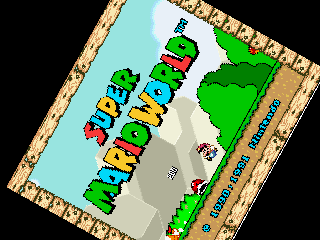
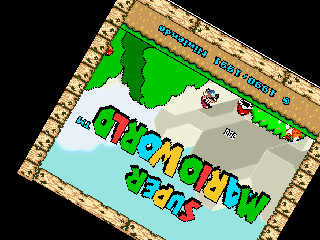
idk its 5 am more mode 7 things still not good yet

diff --git a/otter-rpg-engine/Graphics/Mode7.cs b/otter-rpg-engine/Graphics/Mode7.cs
@@ -6,32 +6,107 @@ namespace Shellblade.Graphics
 {
 	public class Mode7 : Drawable
 	{
-		private Image _toImage;
+		private readonly Sprite   _sprite = new Sprite();
+		private          Image    _toImage;
+		private          Image    _fromImage;
+		private          Vector2u _scroll;
+		private          Vector2u _center;
+		private          double   _rotation;
+		private          Vector2f _scale;
+		private          Vector2u _resolution;
+		private          bool     _rendered = false;
+		private          Vector2f _skew;
 
-		private Sprite _sprite = new Sprite();
+		public Image FromImage
+		{
+			get => _fromImage;
+			set
+			{
+				_fromImage = value;
+				_rendered  = false;
+			}
+		}
 
-		public Image FromImage { get; set; }
+		public Vector2u Scroll
+		{
+			get => _scroll;
+			set
+			{
+				_scroll   = value;
+				_rendered = false;
+			}
+		}
 
-		public Vector2u Scroll   { get; set; }
-		public Vector2u Center   { get; set; }
-		public double   Rotation { get; set; }
-		public Vector2f Scale    { get; set; }
+		public Vector2u Center
+		{
+			get => _center;
+			set
+			{
+				_center   = value;
+				_rendered = false;
+			}
+		}
 
-		public Vector2u Resolution { get; set; }
+		public double Rotation
+		{
+			get => _rotation;
+			set
+			{
+				_rotation = value;
+				_rendered = false;
+			}
+		}
+
+		public Vector2f Scale
+		{
+			get => _scale;
+			set
+			{
+				_scale    = value;
+				_rendered = false;
+			}
+		}
+
+		public Vector2u Resolution
+		{
+			get => _resolution;
+			set
+			{
+				_resolution = value;
+				_toImage    = new Image(value.X, value.Y);
+				_rendered   = false;
+			}
+		}
+
+		public Vector2f Skew
+		{
+			get => _skew;
+			set
+			{
+				_skew     = value;
+				_rendered = false;
+			}
+		}
 
 		private double _h   => Scroll.X / 256.0;
 		private double _v   => Scroll.Y / 256.0;
 		private double _x   => Center.X / 256.0;
 		private double _y   => Center.Y / 256.0;
 		private double _a   => Math.Cos(rads) * Scale.X;
-		private double _b   => Math.Sin(rads) * Scale.X;
-		private double _c   => -Math.Sin(rads) * Scale.Y;
+		private double _b   => Math.Sin(rads) * (Scale.X + Skew.X * Scale.Y);
+		private double _c   => -Math.Sin(rads) * (Scale.Y + Skew.Y * Scale.X);
 		private double _d   => Math.Cos(rads) * Scale.Y;
 		private double rads => Rotation * Math.PI / 180.0;
 
-		public Texture DrawTexture()
+		public void Draw(RenderTarget target, RenderStates states)
 		{
-			_toImage = new Image(Resolution.X, Resolution.Y);
+			if (!_rendered) DrawTexture();
+			target.Draw(_sprite, states);
+		}
+
+		private void DrawTexture()
+		{
+			_rendered = true;
 
 			Vector2u size = _toImage.Size;
 
@@ -43,16 +118,8 @@ namespace Shellblade.Graphics
 				_toImage.SetPixel(xx, yy, pixel);
 			}
 
-			_toImage.SaveToFile(@"P:\CS\otter-rpg\otter-rpg-engine\Graphics\mode7.png");
-
-			return new Texture(_toImage);
-		}
-
-		public void Draw(RenderTarget target, RenderStates states)
-		{
-			_sprite.Texture = DrawTexture();
-
-			target.Draw(_sprite, states);
+			if (_sprite.Texture == null) _sprite.Texture = new Texture(_toImage);
+			else _sprite.Texture.Update(_toImage);
 		}
 
 		private Vector2u GetVect(uint x, uint y)
@@ -68,6 +135,138 @@ namespace Shellblade.Graphics
 			if (uX < 0 || uY < 0 || uX > FromImage.Size.X || uY > FromImage.Size.Y) uX = uY = 0;
 
 			return new Vector2u((uint)uX, (uint)uY);
+		}
+
+		public class Matrix
+		{
+			private readonly double[][] _numbers = { new double[3], new double[3], new double[3] };
+
+			public double A
+			{
+				get => this[0][0];
+				set => this[0][0] = value;
+			}
+
+			public double B
+			{
+				get => this[0][1];
+				set => this[0][1] = value;
+			}
+
+			public double C
+			{
+				get => this[1][0];
+				set => this[1][0] = value;
+			}
+
+			public double D
+			{
+				get => this[1][1];
+				set => this[1][1] = value;
+			}
+
+			public double X
+			{
+				get => this[0][2];
+				set => this[0][2] = value;
+			}
+
+			public double Y
+			{
+				get => this[1][2];
+				set => this[1][2] = value;
+			}
+
+			public double[] this[int index]
+			{
+				get => _numbers[index];
+				set => _numbers[index] = value;
+			}
+
+			public Matrix(double[][] values)
+			{
+				_numbers = values;
+			}
+
+			public Matrix(double[] values)
+			{
+				_numbers = new[]
+				{
+					new[] { values[0], values[1], values[2] },
+					new[] { values[3], values[4], values[5] },
+					new[] { values[6], values[7], values[8] },
+				};
+			}
+
+			public Matrix(double x0, double x1, double x2, double y0, double y1, double y2, double z0, double z1, double z2)
+			{
+				_numbers = new[]
+				{
+					new[] { x0, x1, x2 },
+					new[] { y0, y1, y2 },
+					new[] { z0, z1, z2 },
+				};
+			}
+
+			public Matrix()
+			{
+				_numbers = new double[3][];
+			}
+
+			public static Matrix operator *(Matrix a, Matrix b)
+			{
+				var m = new Matrix();
+				for (var x = 0; x < 3; x++)
+				for (var y = 0; y < 3; y++)
+				for (var i = 0; i < 3; i++)
+					m[y][x] += a[i][x] * b[y][i];
+
+				return m;
+			}
+
+			public static double[] operator *(Matrix a, double[] b)
+			{
+				return new[]
+				{
+					a[0][0] * b[0] + a[0][1] * b[1] + a[0][2] * b[2],
+					a[1][0] * b[0] + a[1][1] * b[1] + a[1][2] * b[2],
+					a[2][0] * b[0] + a[2][1] * b[1] + a[2][2] * b[2],
+				};
+			}
+
+			public static Vector2f operator *(Matrix a, Vector2f b)
+			{
+				double[] c = a * new[] { b.X, b.Y, 1.0 };
+				return new Vector2f((float)c[0], (float)c[1]);
+			}
+
+			public static Vector3f operator *(Matrix a, Vector3f b)
+			{
+				double[] c = a * new double[] { b.X, b.Y, b.Z };
+				return new Vector3f((float)c[0], (float)c[1], (float)c[2]);
+			}
+		}
+
+		public class Transform
+		{
+			public static readonly Matrix Identity = new Matrix(1.0, 0.0, 0.0, 0.0, 1.0, 0.0, 0.0, 0.0, 1.0);
+
+			public Matrix Matrix { get; set; }
+
+			private double _rotation;
+
+			private double Radians => _rotation * Math.PI / 180.0;
+
+			public void Translate(int x, int y)
+			{
+				var t = new Matrix(1.0, 0.0, x, 0.0, 1.0, y, 0.0, 0.0, 1.0);
+				Matrix = t * Matrix;
+			}
+
+			public void Rotate(double angle)
+			{
+
+			}
 		}
 	}
 }

diff --git a/otter-rpg/Program.cs b/otter-rpg/Program.cs
@@ -76,27 +76,32 @@ namespace OtterRPG
 
 			var m7 = new Mode7
 			{
-				Resolution = new Vector2u(ResWidth, ResHeight),
-				Scroll     = new Vector2u(0,        0),
-				Center     = new Vector2u(ResWidth / 2,  ResHeight / 2),
+				Resolution = new Vector2u(ResWidth,     ResHeight),
+				Scroll     = new Vector2u(0,            0),
+				Center     = new Vector2u(ResWidth / 2, ResHeight / 2),
 				Scale      = new Vector2f(1f, 1f),
-				Rotation   = 45.0,
-				FromImage  = new Image(@"P:\CS\otter-rpg\otter-rpg-engine\Graphics\smw.png"),
+				Rotation   = 0.0,
+				Skew       = new Vector2f(5f, 0f),
+				FromImage  = new Image(@"P:\CS\otter-rpg\otter-rpg-engine\Graphics\alttp.png"),
 			};
 
 			var window = new Window(new Vector2u(ResWidth * WindowScale, ResHeight * WindowScale), new Vector2u(ResWidth, ResHeight), "Test");
 
+			const float rotSpeed = 5f;
+
 			window.Drawables.Add("textbox", tb, 10);
-			window.Drawables.Add("mode7", m7, 0, true);
+			window.Drawables.Add("mode7",   m7, 0, true);
 			window.KeyboardEvents.Add(Keyboard.Key.Enter, tb.Next);
 			window.KeyboardEvents.Add(Keyboard.Key.Left,  () => { tb.ChangeFont(ChangeFont(false)); });
 			window.KeyboardEvents.Add(Keyboard.Key.Right, () => { tb.ChangeFont(ChangeFont(true)); });
-			window.KeyboardEvents.Add(Keyboard.Key.W,     () => { m7.Center = new Vector2u(m7.Center.X, m7.Center.Y - 1); });
-			window.KeyboardEvents.Add(Keyboard.Key.A,     () => { m7.Center = new Vector2u(m7.Center.X, m7.Center.X - 1); });
-			window.KeyboardEvents.Add(Keyboard.Key.S,     () => { m7.Center = new Vector2u(m7.Center.X, m7.Center.Y + 1); });
-			window.KeyboardEvents.Add(Keyboard.Key.D,     () => { m7.Center = new Vector2u(m7.Center.X, m7.Center.X + 1); });
-			window.KeyboardEvents.Add(Keyboard.Key.Q,     () => { m7.Rotation++; });
-			window.KeyboardEvents.Add(Keyboard.Key.E,     () => { m7.Rotation--; });
+			window.KeyboardEvents.Add(Keyboard.Key.W,     () => { m7.Scroll   =  new Vector2u(m7.Scroll.X,     m7.Scroll.Y - 1); });
+			window.KeyboardEvents.Add(Keyboard.Key.A,     () => { m7.Scroll   =  new Vector2u(m7.Scroll.X - 1, m7.Scroll.Y); });
+			window.KeyboardEvents.Add(Keyboard.Key.S,     () => { m7.Scroll   =  new Vector2u(m7.Scroll.X,     m7.Scroll.Y + 1); });
+			window.KeyboardEvents.Add(Keyboard.Key.D,     () => { m7.Scroll   =  new Vector2u(m7.Scroll.X + 1, m7.Scroll.Y); });
+			window.KeyboardEvents.Add(Keyboard.Key.Q,     () => { m7.Rotation -= rotSpeed; });
+			window.KeyboardEvents.Add(Keyboard.Key.E,     () => { m7.Rotation += rotSpeed; });
+			window.KeyboardEvents.Add(Keyboard.Key.Z,     () => { m7.Scale    += new Vector2f(0.1f, 0.1f); });
+			window.KeyboardEvents.Add(Keyboard.Key.X,     () => { m7.Scale    -= new Vector2f(0.1f, 0.1f); });
 
 			window.LoopFunction = dt => { tb.UpdateScroll(dt.AsMilliseconds()); };
 			window.MainLoop();
